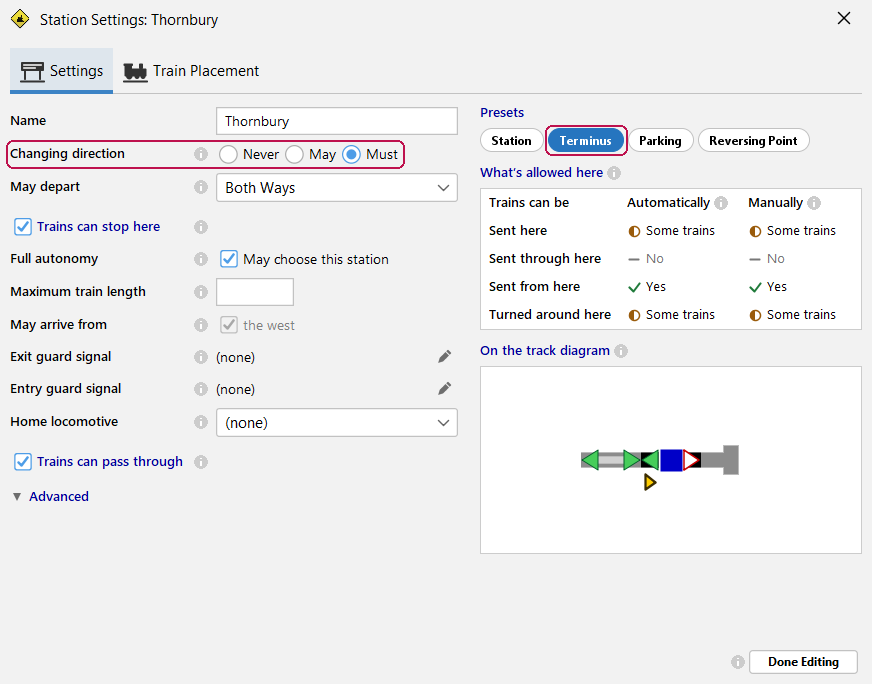
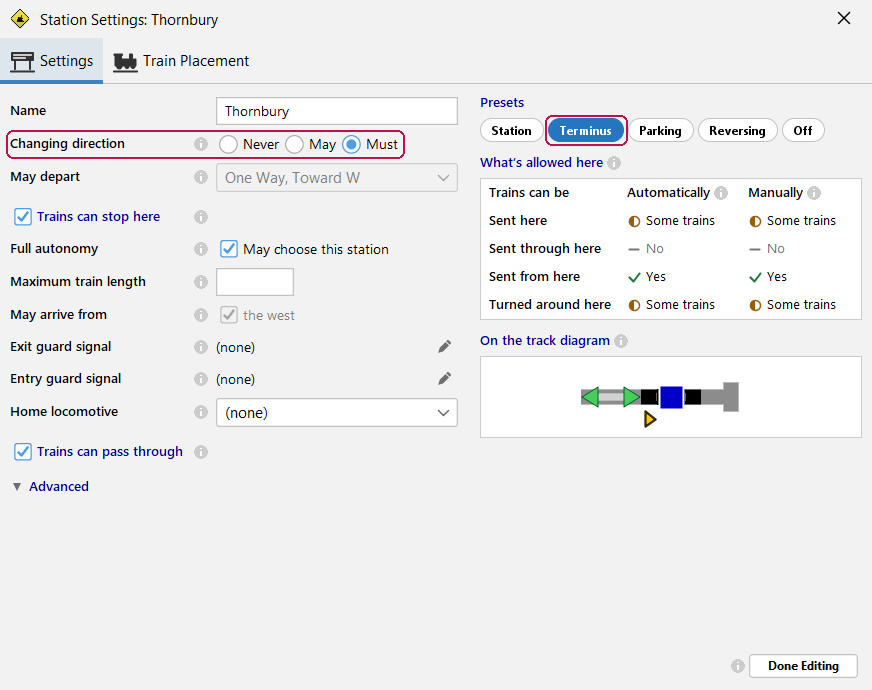
Readme What's new: Station Settings pictures (Ashby's right-click menu on the track diagram, its window) and May depart named; Station Settings pictures retaken for s88dir's presets (Reversing, Off) and May depart (station_settings, guide 10, 11, 15, 17)

diff --git a/Readme.md b/Readme.md
@@ -21,7 +21,7 @@ TrainControl connects to a Central Station 2, 3, or 3 Plus over your network.  I
 <img src="assets/station_menu.png?raw=true" alt="Right-clicking the station Ashby on the track diagram, with Station Settings... right under its name in the menu" width="300"> <img src="assets/station_settings_ashby.png?raw=true" alt="The Station Settings window for Ashby, with what trains may do there on the left and a picture of the station on the right" width="500">
 
 * Tick whether trains can stop there and whether they can run through, or press a button under `Presets` to set it up in one click.
-* Choose which ways trains may leave, or just click the arrows on the picture of the station.
+* Choose which ways trains may leave under `May depart`, or click the arrows on the track beside the station in its picture.
 * Under `Advanced`, `Allowed trains` keeps some trains away or lets only the ones you pick stop there.
 * A table beside the picture tells you what trains may do at the station, whether autonomy sends them or you do.
 
